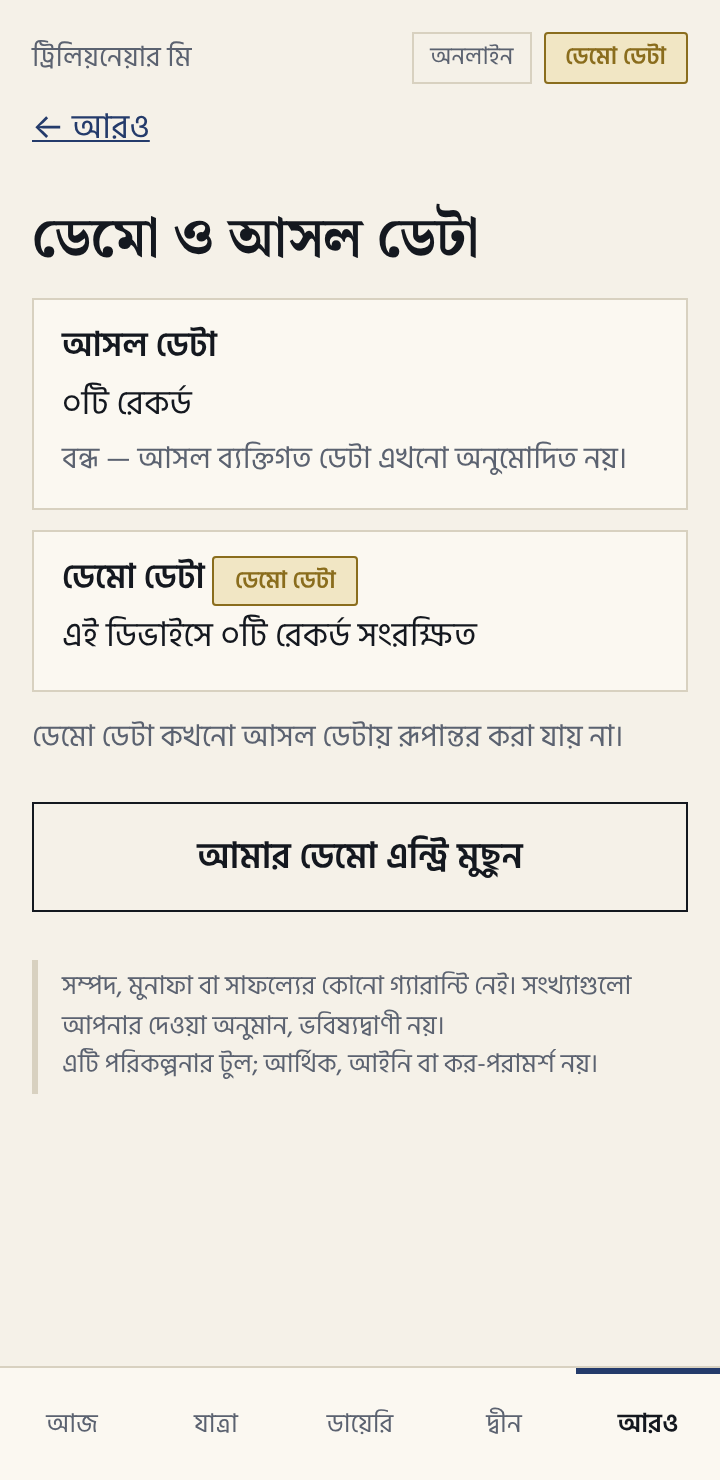
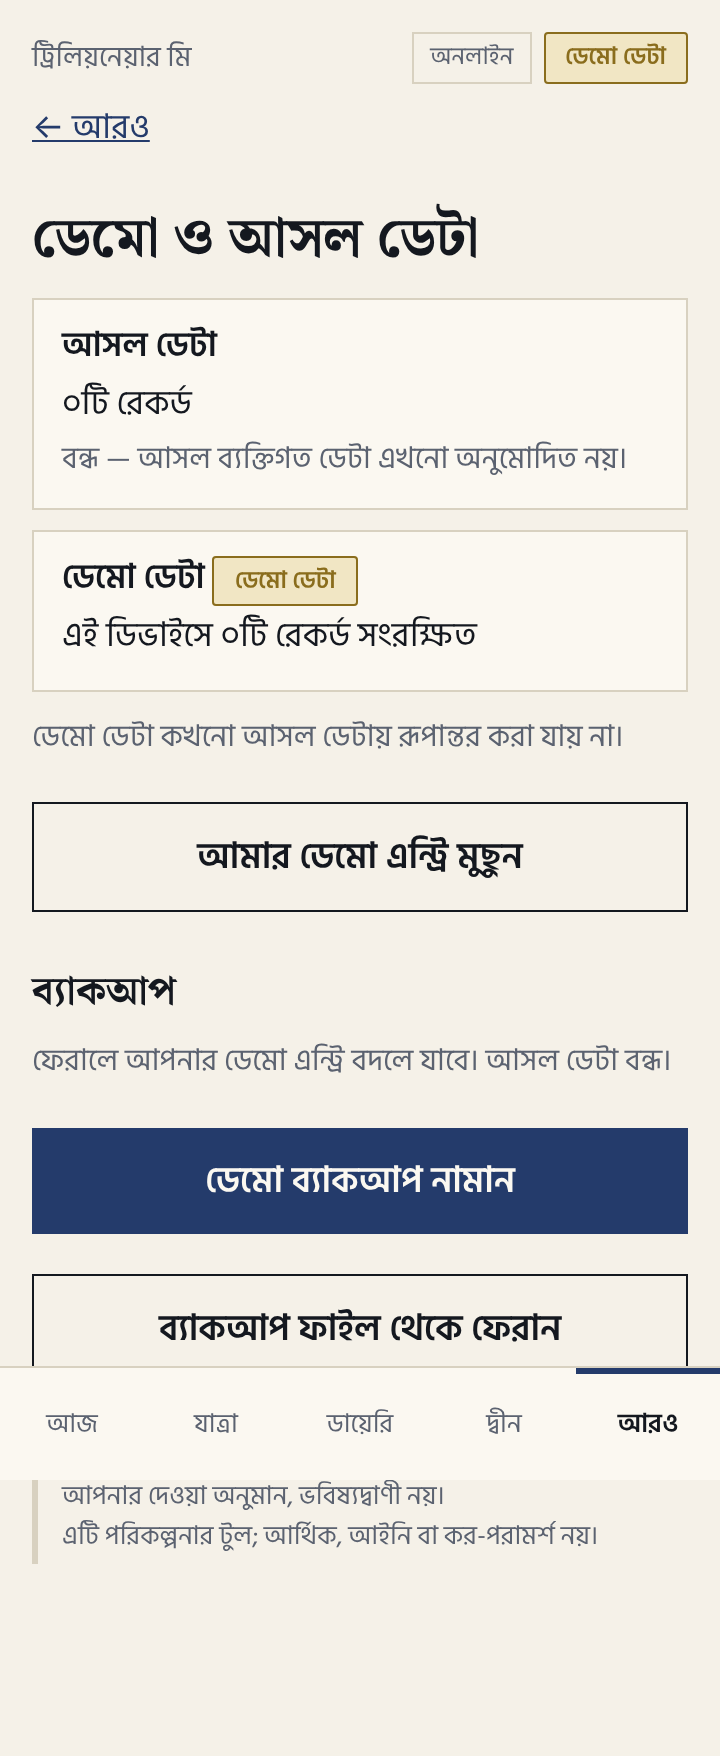
G2 slice 2: backup/restore buttons in the app (demo namespace)
Claude-Session: https://claude.ai/code/session_01ECQLEnTuJEEpTPr8wz4yQ9

diff --git a/src/ui/screens.ts b/src/ui/screens.ts
@@ -13,6 +13,8 @@ import { completeness, nextStep, stepFields, type Answers } from "../core/intake
 import { checkFreeText } from "../core/safety";
 import { type FieldValue, type TMRecord, type UnknownState } from "../core/types";
 import type { FieldDef } from "../catalog/types";
+import { StoreRepo } from "../adapters/storeRepo";
+import { createBackup, restoreBackup } from "../core/backup";
 import { GLOSSARY } from "../catalog/glossary";
 
 const L = () => prefs.lang;
@@ -279,6 +281,21 @@ export function dataScreen(): HTMLElement {
     h("div", { class: "card", "data-ns": "demo" }, h("h3", {}, t("data.demo", lang), " ", demoBadge(lang)), h("p", {}, t("data.demo.count", lang, { n: num(store.demo.list().length, lang) }))),
     h("p", { class: "muted" }, t("data.nopromote", lang)),
     h("button", { class: "btn ghost", type: "button", onclick: () => { store.demo.clear(); rerender(); } }, t("data.clearDemo", lang)),
+    h("h2", {}, t("backup.title", lang)),
+    h("p", { class: "muted" }, t("backup.note", lang)),
+    h("button", { class: "btn", type: "button", "data-act": "backup", onclick: async () => {
+      const b = await createBackup(new StoreRepo(store), "demo");
+      const a = h("a", { href: URL.createObjectURL(new Blob([JSON.stringify(b)], { type: "application/json" })), download: `tm-demo-backup-${b.createdAt.slice(0, 10)}.json` });
+      document.body.append(a); a.click(); a.remove();
+    } }, t("backup.save", lang)),
+    h("label", { class: "btn ghost", style: "cursor:pointer" }, t("backup.restore", lang),
+      h("input", { type: "file", accept: "application/json,.json", "data-act": "restore", style: "display:none", onchange: async (e: Event) => {
+        const f = (e.target as HTMLInputElement).files?.[0]; if (!f) return;
+        const out = document.getElementById("backup-msg")!;
+        try { const n = await restoreBackup(new StoreRepo(store), await f.text()); out.className = "ok-msg"; out.textContent = t("backup.ok", lang, { n: num(n, lang) }); }
+        catch (err) { out.className = "err"; out.textContent = t("backup.bad", lang, { why: (err as Error).message }); }
+      } })),
+    h("p", { id: "backup-msg", role: "status" }),
     disclaimers(lang));
 }
 

diff --git a/src/i18n/packs.ts b/src/i18n/packs.ts
@@ -83,6 +83,7 @@ const en = {
   "data.nopromote": "Demo data can never be converted into real data.",
   "data.clearDemo": "Delete my demo entries",
   "data.cleared": "Demo entries deleted.",
+  "backup.title": "Backup", "backup.save": "Download demo backup", "backup.restore": "Restore from backup file", "backup.ok": "Restored {n} records.", "backup.bad": "This file cannot be restored: {why}. Nothing was changed.", "backup.note": "Restoring replaces your demo entries. Real data is locked.",
   "empty.slot": "Empty — structure only",
   "empty.stageNote": "Pass rules are built later.",
 } as const;
@@ -172,6 +173,7 @@ const bn: Record<Key, string> = {
   "data.nopromote": "ডেমো ডেটা কখনো আসল ডেটায় রূপান্তর করা যায় না।",
   "data.clearDemo": "আমার ডেমো এন্ট্রি মুছুন",
   "data.cleared": "ডেমো এন্ট্রি মুছে ফেলা হয়েছে।",
+  "backup.title": "ব্যাকআপ", "backup.save": "ডেমো ব্যাকআপ নামান", "backup.restore": "ব্যাকআপ ফাইল থেকে ফেরান", "backup.ok": "{n}টি রেকর্ড ফেরানো হয়েছে।", "backup.bad": "এই ফাইল ফেরানো যাবে না: {why}। কিছুই বদলায়নি।", "backup.note": "ফেরালে আপনার ডেমো এন্ট্রি বদলে যাবে। আসল ডেটা বন্ধ।",
   "empty.slot": "ফাঁকা — শুধু কাঠামো",
   "empty.stageNote": "পাসের নিয়ম পরে বানানো হবে।",
 };

diff --git a/tests/g2.test.ts b/tests/g2.test.ts
@@ -54,3 +54,15 @@ describe("G2 backup / restore", () => {
     expect(() => parseBackup(JSON.stringify({ ...f, schemaVersion: 99 }))).toThrow(/newer/);
   });
 });
+
+import { MemoryKV, Store } from "../src/core/store";
+import { StoreRepo } from "../src/adapters/storeRepo";
+describe("G2 backup via the app's current store", () => {
+  it("demo store backs up and restores into a fresh device; real stays locked", async () => {
+    const s1 = new Store(new MemoryKV()); s1.demo.put(rec("a")); s1.demo.put(rec("b"));
+    const file = JSON.stringify(await createBackup(new StoreRepo(s1), "demo"));
+    const s2 = new Store(new MemoryKV());
+    expect(await restoreBackup(new StoreRepo(s2), file)).toBe(2);
+    expect(s2.demo.list().length).toBe(2); expect(s2.real.list()).toEqual([]);
+  });
+});

diff --git a/src/adapters/storeRepo.ts b/src/adapters/storeRepo.ts
@@ -1,0 +1,13 @@
+import type { RecordRepo } from "../core/repo";
+import type { Store } from "../core/store";
+import type { Namespace } from "../core/types";
+
+/** Bridges the G1 sync store to the async RecordRepo contract until the UI moves to IndexedDB. */
+export class StoreRepo implements RecordRepo {
+  constructor(private s: Store) {}
+  async list(ns: Namespace) { return this.s[ns].list(); }
+  async get(ns: Namespace, id: string) { return this.s[ns].get(id); }
+  async put(r: Parameters<RecordRepo["put"]>[0]) { this.s[r.ns].put(r); }
+  async delete(ns: Namespace, id: string) { this.s[ns].delete(id); }
+  async clear(ns: Namespace) { this.s[ns].clear(); }
+}
